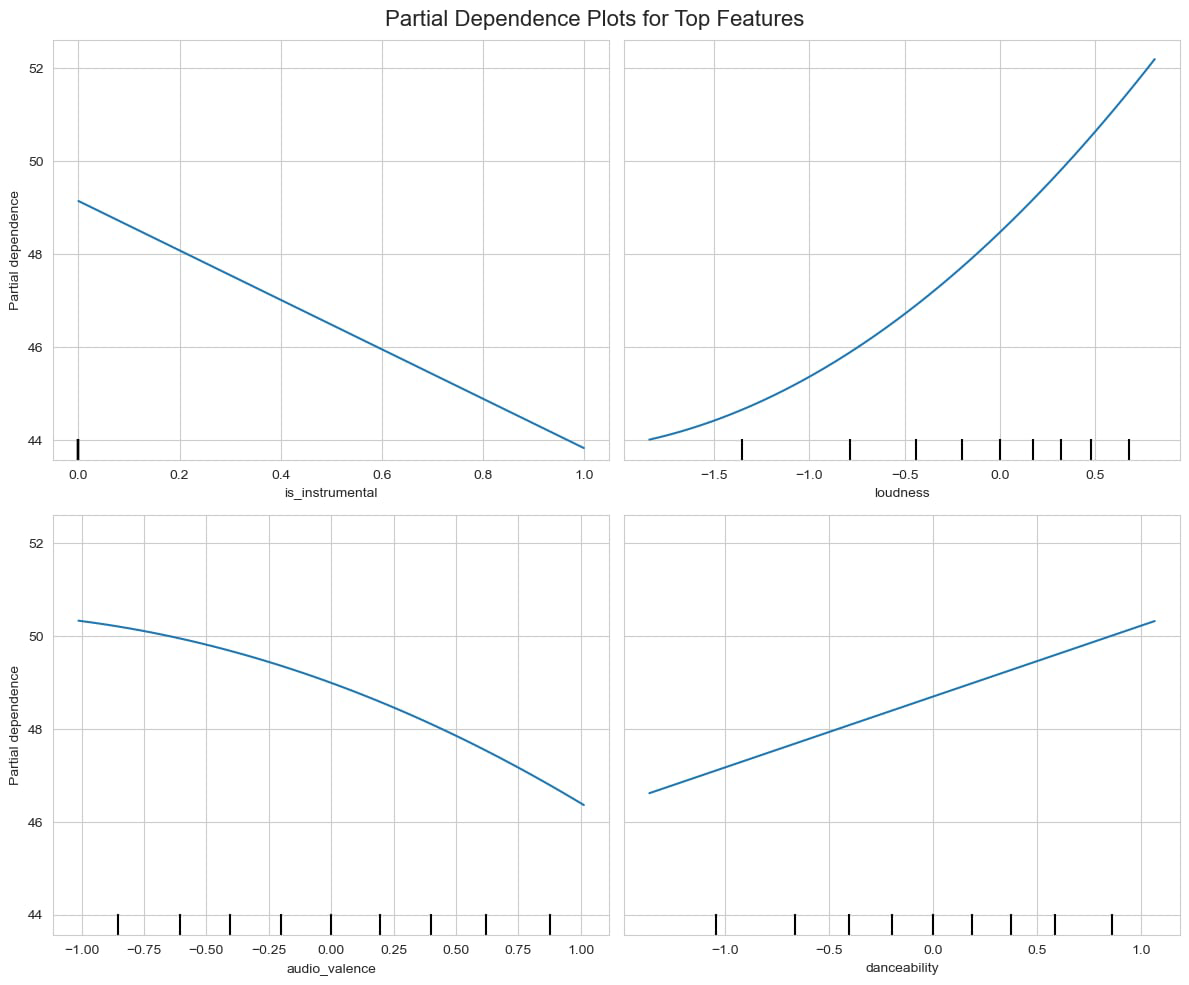
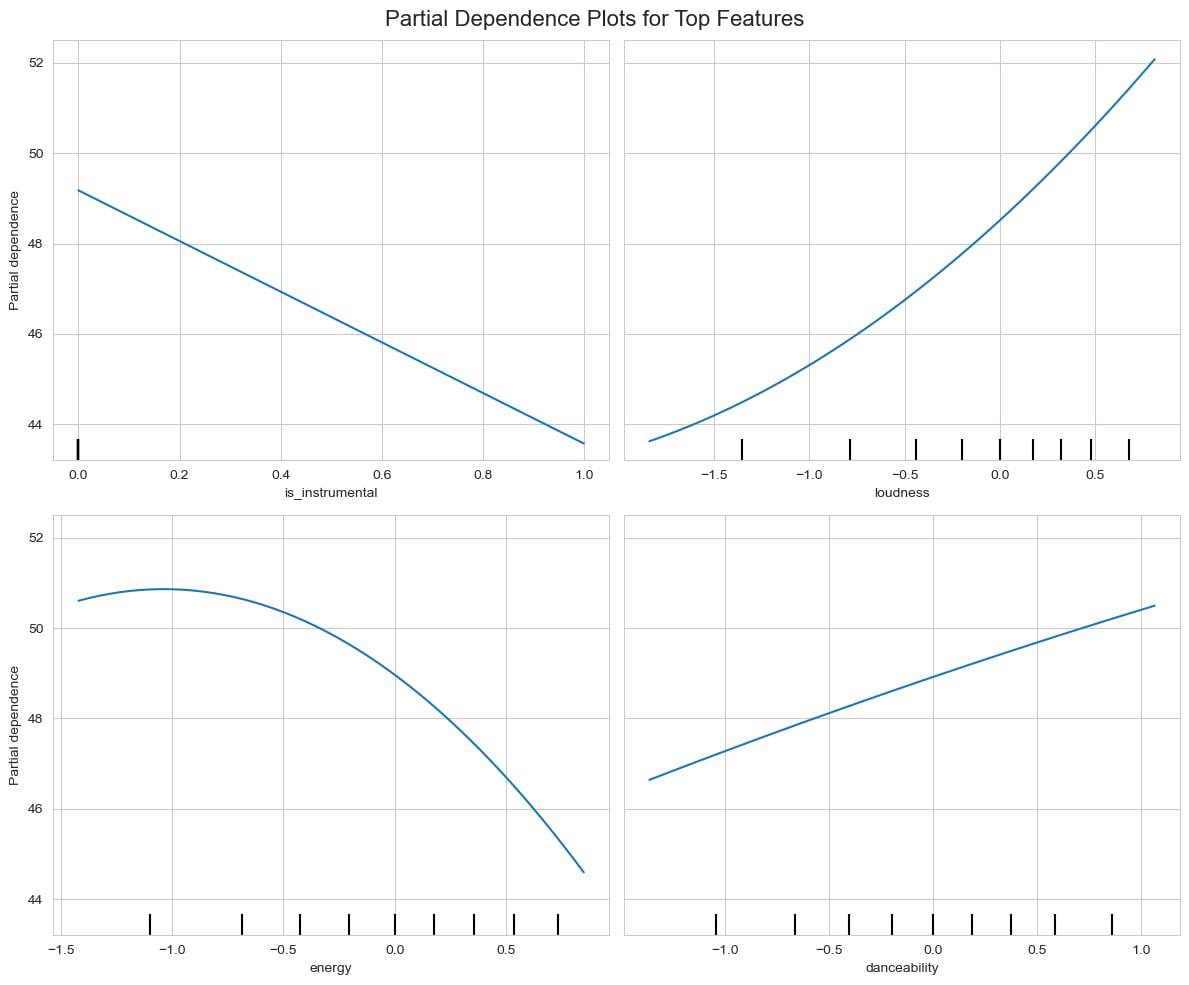
feature: update model insight

diff --git a/frontend/src/components/ModelInsights.jsx b/frontend/src/components/ModelInsights.jsx
@@ -5,7 +5,7 @@ const ModelInsights = () => {
     <div className="bg-white rounded-lg shadow-md p-6 mt-8">
       <h2 className="text-2xl font-bold text-gray-800 mb-4">Deeper Model Insights</h2>
       <p className="text-gray-600 mb-6">
-        While individual features show weak correlations, the model's power comes from understanding non-linear trends and how features interact with each other. Here are the most influential factors identified by the trained Polynomial model.
+        While individual features show weak correlations on their own, the model's power comes from understanding non-linear trends and how features interact. Here are the most influential factors identified by the trained model.
       </p>
 
       {/* Section for Top Features Chart */}
@@ -14,16 +14,16 @@ const ModelInsights = () => {
         <div className="overflow-x-auto rounded-lg border border-gray-200">
           <img 
             src="/top_features.png" 
-            alt="Bar chart of the most important features from the Lasso Polynomial model"
+            alt="Bar chart of the most important features"
             className="min-w-[800px] w-full"
           />
         </div>
         <div className="mt-4 bg-gray-50 border border-gray-200 rounded-lg p-4 text-sm text-gray-700">
           <h4 className="font-semibold text-gray-800 mb-2">Key Observations:</h4>
           <ul className="list-disc list-inside space-y-1">
-            <li>Non-Linearity is Key: Notice that squared terms like `is_instrumental^2` and `loudness^2` are highly important. This confirms that the relationships are not simple straight lines.</li>
-            <li>Feature Interactions: Many top features are combinations (e.g., `song_duration_ms` interacting with `is_instrumental`). This shows the model learns from how features work *together*.</li>
-            <li>Original Features Still Matter: While combinations are important, the original `loudness`, `audio_valence`, and `danceability` features are still in the top 5, showing they have a strong independent influence.</li>
+            <li><strong>Non-Linearity is Key:</strong> Many of the most important features are squared terms (e.g., `loudness^2`) or interactions between features (e.g., `acousticness` and `audio_mode`).</li>
+            <li><strong>Interactions Matter:</strong> The model's strength comes from learning how features work *together*, not just in isolation.</li>
+            <li><strong>Core Features are Still Strong:</strong> A few original features like `loudness` and `is_instrumental` still have a very powerful influence on the prediction.</li>
           </ul>
         </div>
       </div>
@@ -32,6 +32,7 @@ const ModelInsights = () => {
       <div>
         <h3 className="text-xl font-semibold text-gray-700 mb-4">How Top Features Influence Popularity</h3>
         <div className="overflow-x-auto rounded-lg border border-gray-200">
+          {/* Use the new image file */}
           <img 
             src="/partial_dependence_plots.png" 
             alt="Partial dependence plots for top 4 features"
@@ -39,21 +40,22 @@ const ModelInsights = () => {
           />
         </div>
         <div className="mt-4 grid grid-cols-1 md:grid-cols-2 gap-4 text-sm">
+            {/* NEW DESCRIPTIONS BASED ON THE AI TEAM'S ANALYSIS */}
             <div className="bg-blue-50 border border-blue-200 rounded-lg p-4">
                 <h4 className="font-semibold text-blue-800 mb-2">1. Instrumentalness (Linear Trend)</h4>
-                <p className="text-blue-700">As `is_instrumental` goes from 0 (vocals present) to 1 (no vocals), the predicted popularity drops significantly. Conclusion: Songs with vocals are much more likely to be popular.</p>
+                <p className="text-blue-700">As `is_instrumental` goes from 0 (vocals present) to 1 (no vocals), predicted popularity drops sharply. This suggests that songs with vocals are significantly more likely to be popular.</p>
             </div>
             <div className="bg-green-50 border border-green-200 rounded-lg p-4">
                 <h4 className="font-semibold text-green-800 mb-2">2. Loudness (Non-Linear Trend)</h4>
-                <p className="text-green-700">As a song gets louder (loudness increases), its predicted popularity rises sharply. The relationship is curved, suggesting the biggest gains happen as songs move from quiet to moderately loud.</p>
-            </div>
-            <div className="bg-red-50 border border-red-200 rounded-lg p-4">
-                <h4 className="font-semibold text-red-800 mb-2">3. Audio Valence (Non-Linear Trend)</h4>
-                <p className="text-red-700">Interestingly, as a song becomes happier/more positive (valence increases), its predicted popularity tends to decrease slightly. Conclusion: The model learned that slightly less "happy" or more emotionally complex songs have a slight edge in popularity.</p>
+                <p className="text-green-700">As a song gets louder, its predicted popularity rises in a curve, similar to a logarithmic function. The biggest gains in popularity come from moving from quiet to moderately loud.</p>
             </div>
             <div className="bg-purple-50 border border-purple-200 rounded-lg p-4">
-                <h4 className="font-semibold text-purple-800 mb-2">4. Danceability (Linear Trend)</h4>
-                <p className="text-purple-700">As `danceability` increases, the predicted popularity also trends upward. Conclusion: Songs that are easier to dance to are generally predicted to be more popular.</p>
+                <h4 className="font-semibold text-purple-800 mb-2">3. Energy (Non-Linear Parabolic Trend)</h4>
+                <p className="text-purple-700">Popularity peaks at a moderate energy level. Songs with very low energy (boring) or extremely high energy (too intense for mainstream) are predicted to be less popular. This indicates a "sweet spot" for energy.</p>
+            </div>
+            <div className="bg-red-50 border border-red-200 rounded-lg p-4">
+                <h4 className="font-semibold text-red-800 mb-2">4. Danceability (Linear Trend)</h4>
+                <p className="text-red-700">As a song becomes easier to dance to, its predicted popularity consistently increases. The relationship is clearly linear and positive.</p>
             </div>
         </div>
       </div>
@@ -61,7 +63,7 @@ const ModelInsights = () => {
       <div className="mt-8 bg-yellow-50 border border-yellow-300 rounded-lg p-6">
         <h3 className="text-lg font-bold text-yellow-800 mb-2">Overall Conclusion</h3>
         <p className="text-yellow-700">
-          The relationship between a song's features and its popularity is highly complex. The model's predictive power does not come from any single feature, but from understanding the combinations (interactions) and non-linear relationships (curves) between them. This is why a simple linear model performs poorly, and a more complex Polynomial model was required to capture these subtle trends.
+          The relationship between a song's features and its popularity is highly complex and does not follow simple linear rules. The model's predictive power comes not from individual features, but from understanding the combinations (interactions) and non-linear relationships (curves) between them.
         </p>
       </div>
 

diff --git a/frontend/src/components/StaticCharts.jsx b/frontend/src/components/StaticCharts.jsx
@@ -3,47 +3,29 @@ import React from 'react';
 const StaticCharts = () => {
   return (
     <div className="bg-white rounded-lg shadow-md p-6 mt-8">
-      <h2 className="text-2xl font-bold text-gray-800 mb-4">Feature Analysis Visualizations</h2>
+      <h2 className="text-2xl font-bold text-gray-800 mb-4">Feature Correlation Analysis</h2>
       <p className="text-gray-600 mb-6">
-        These charts show the relationship between different audio features and song popularity from the training dataset. This helps in understanding which factors are more influential.
+        This chart shows the absolute linear correlation of each raw feature with song popularity. A higher bar indicates a stronger relationship, but it does not capture the more complex, non-linear patterns the final model learned.
       </p>
 
-      {/* Section for Numerical Feature Charts */}
-      <div className="mb-8">
-        <h3 className="text-xl font-semibold text-gray-700 mb-4">Numerical Features vs. Popularity</h3>
-        <div className="overflow-x-auto rounded-lg border border-gray-200">
-          {/* We link directly to the image in the public folder */}
+      {/* Section for the new Correlation Bar Chart */}
+      <div className="mb-6">
+        <h3 className="text-xl font-semibold text-gray-700 mb-4">Absolute Feature Correlation with Target</h3>
+        <div className="overflow-x-auto rounded-lg border border-gray-200 bg-gray-50 p-4">
           <img 
-            src="/charts_numerical.png" 
-            alt="Scatter plots of numerical features vs song popularity"
+            src="/feature_correlation.png" 
+            alt="Bar chart showing the absolute correlation of each feature with song popularity"
             className="min-w-[800px] w-full"
           />
         </div>
-        <p className="text-xs text-gray-500 mt-2 text-center">
-          Scatter plots showing relationships for features like danceability, energy, and loudness.
-        </p>
       </div>
 
-      {/* Section for Categorical Feature Charts */}
-      <div>
-        <h3 className="text-xl font-semibold text-gray-700 mb-4">Categorical Features vs. Popularity</h3>
-        <div className="overflow-x-auto rounded-lg border border-gray-200">
-          <img 
-            src="/charts_categorical.png" 
-            alt="Box plots of categorical features vs song popularity"
-            className="min-w-[800px] w-full"
-          />
-        </div>
-         <p className="text-xs text-gray-500 mt-2 text-center">
-          Box plots showing the distribution of popularity across different keys, modes, and time signatures.
-        </p>
-      </div>
        <div className="mt-6 bg-blue-50 border border-blue-200 rounded-lg p-4">
           <h4 className="text-sm font-semibold text-blue-800 mb-2">
             💡 Key Takeaway
           </h4>
           <p className="text-sm text-blue-700">
-            As seen in the charts, no single attribute appears to be a dominant predictor of song popularity on its own. The model's predictive power comes from learning the complex interplay between all of these features combined.
+            As shown in the chart, the raw features like `is_instrumental`, `danceability`, and `loudness` have the strongest direct correlation with popularity. However, all correlations are very weak (less than 0.1), which confirms that a simple linear model would not be effective. This is why a more complex Polynomial model was necessary to find predictive patterns.
           </p>
         </div>
     </div>
